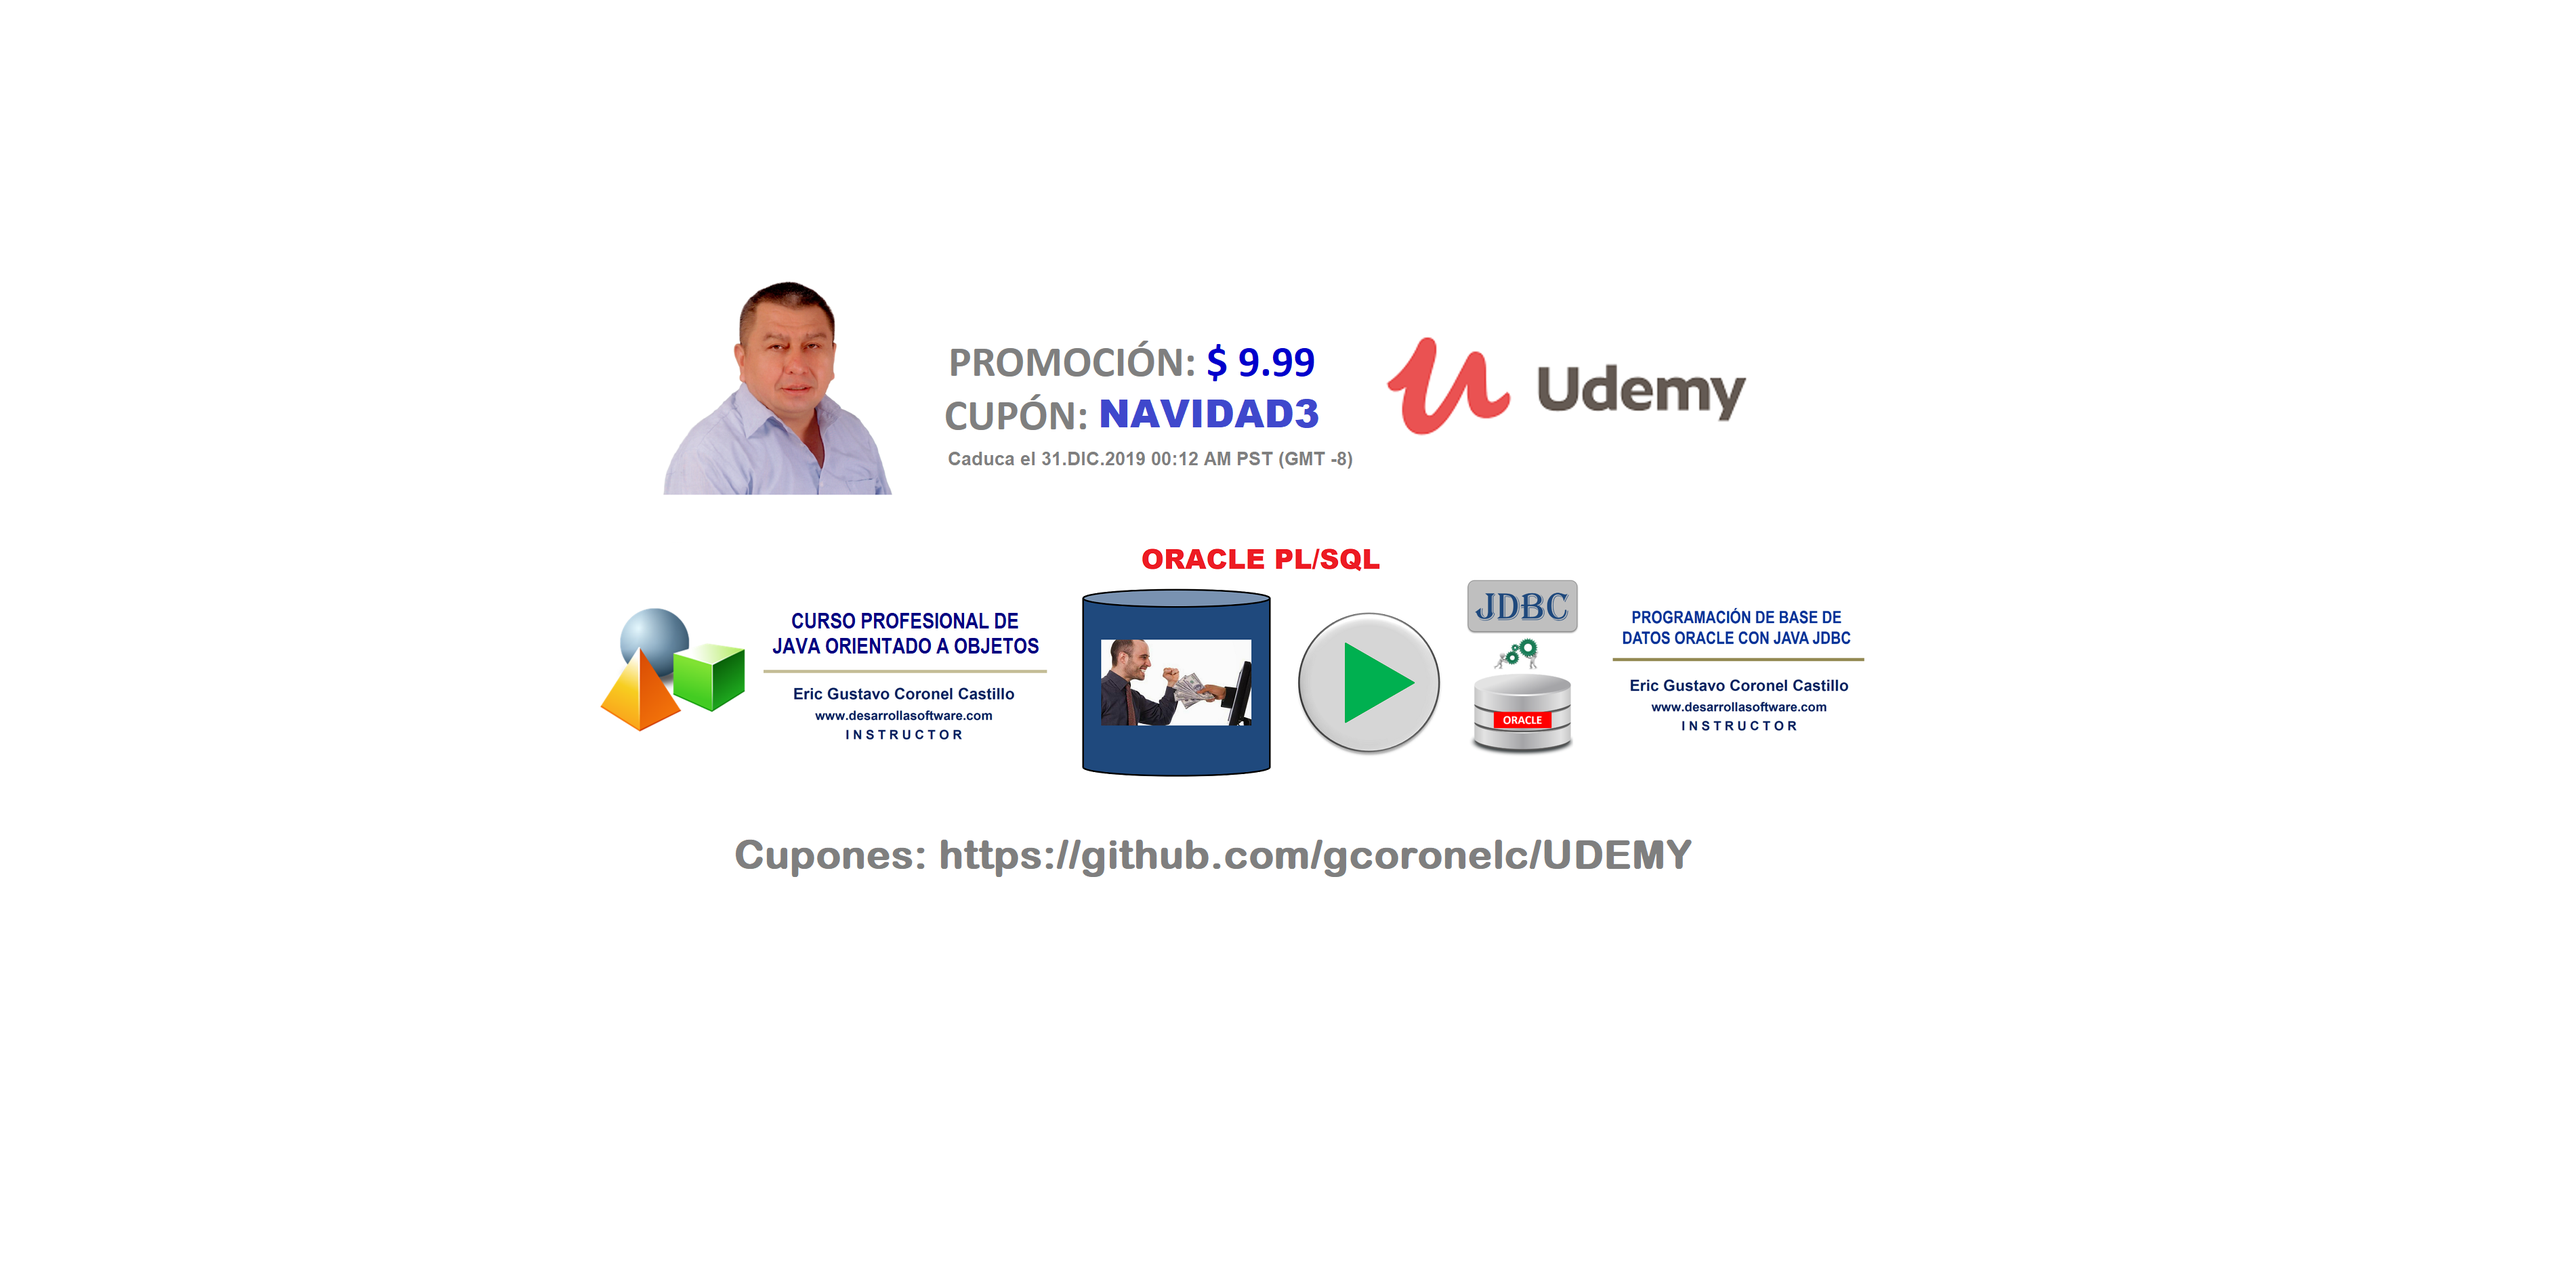
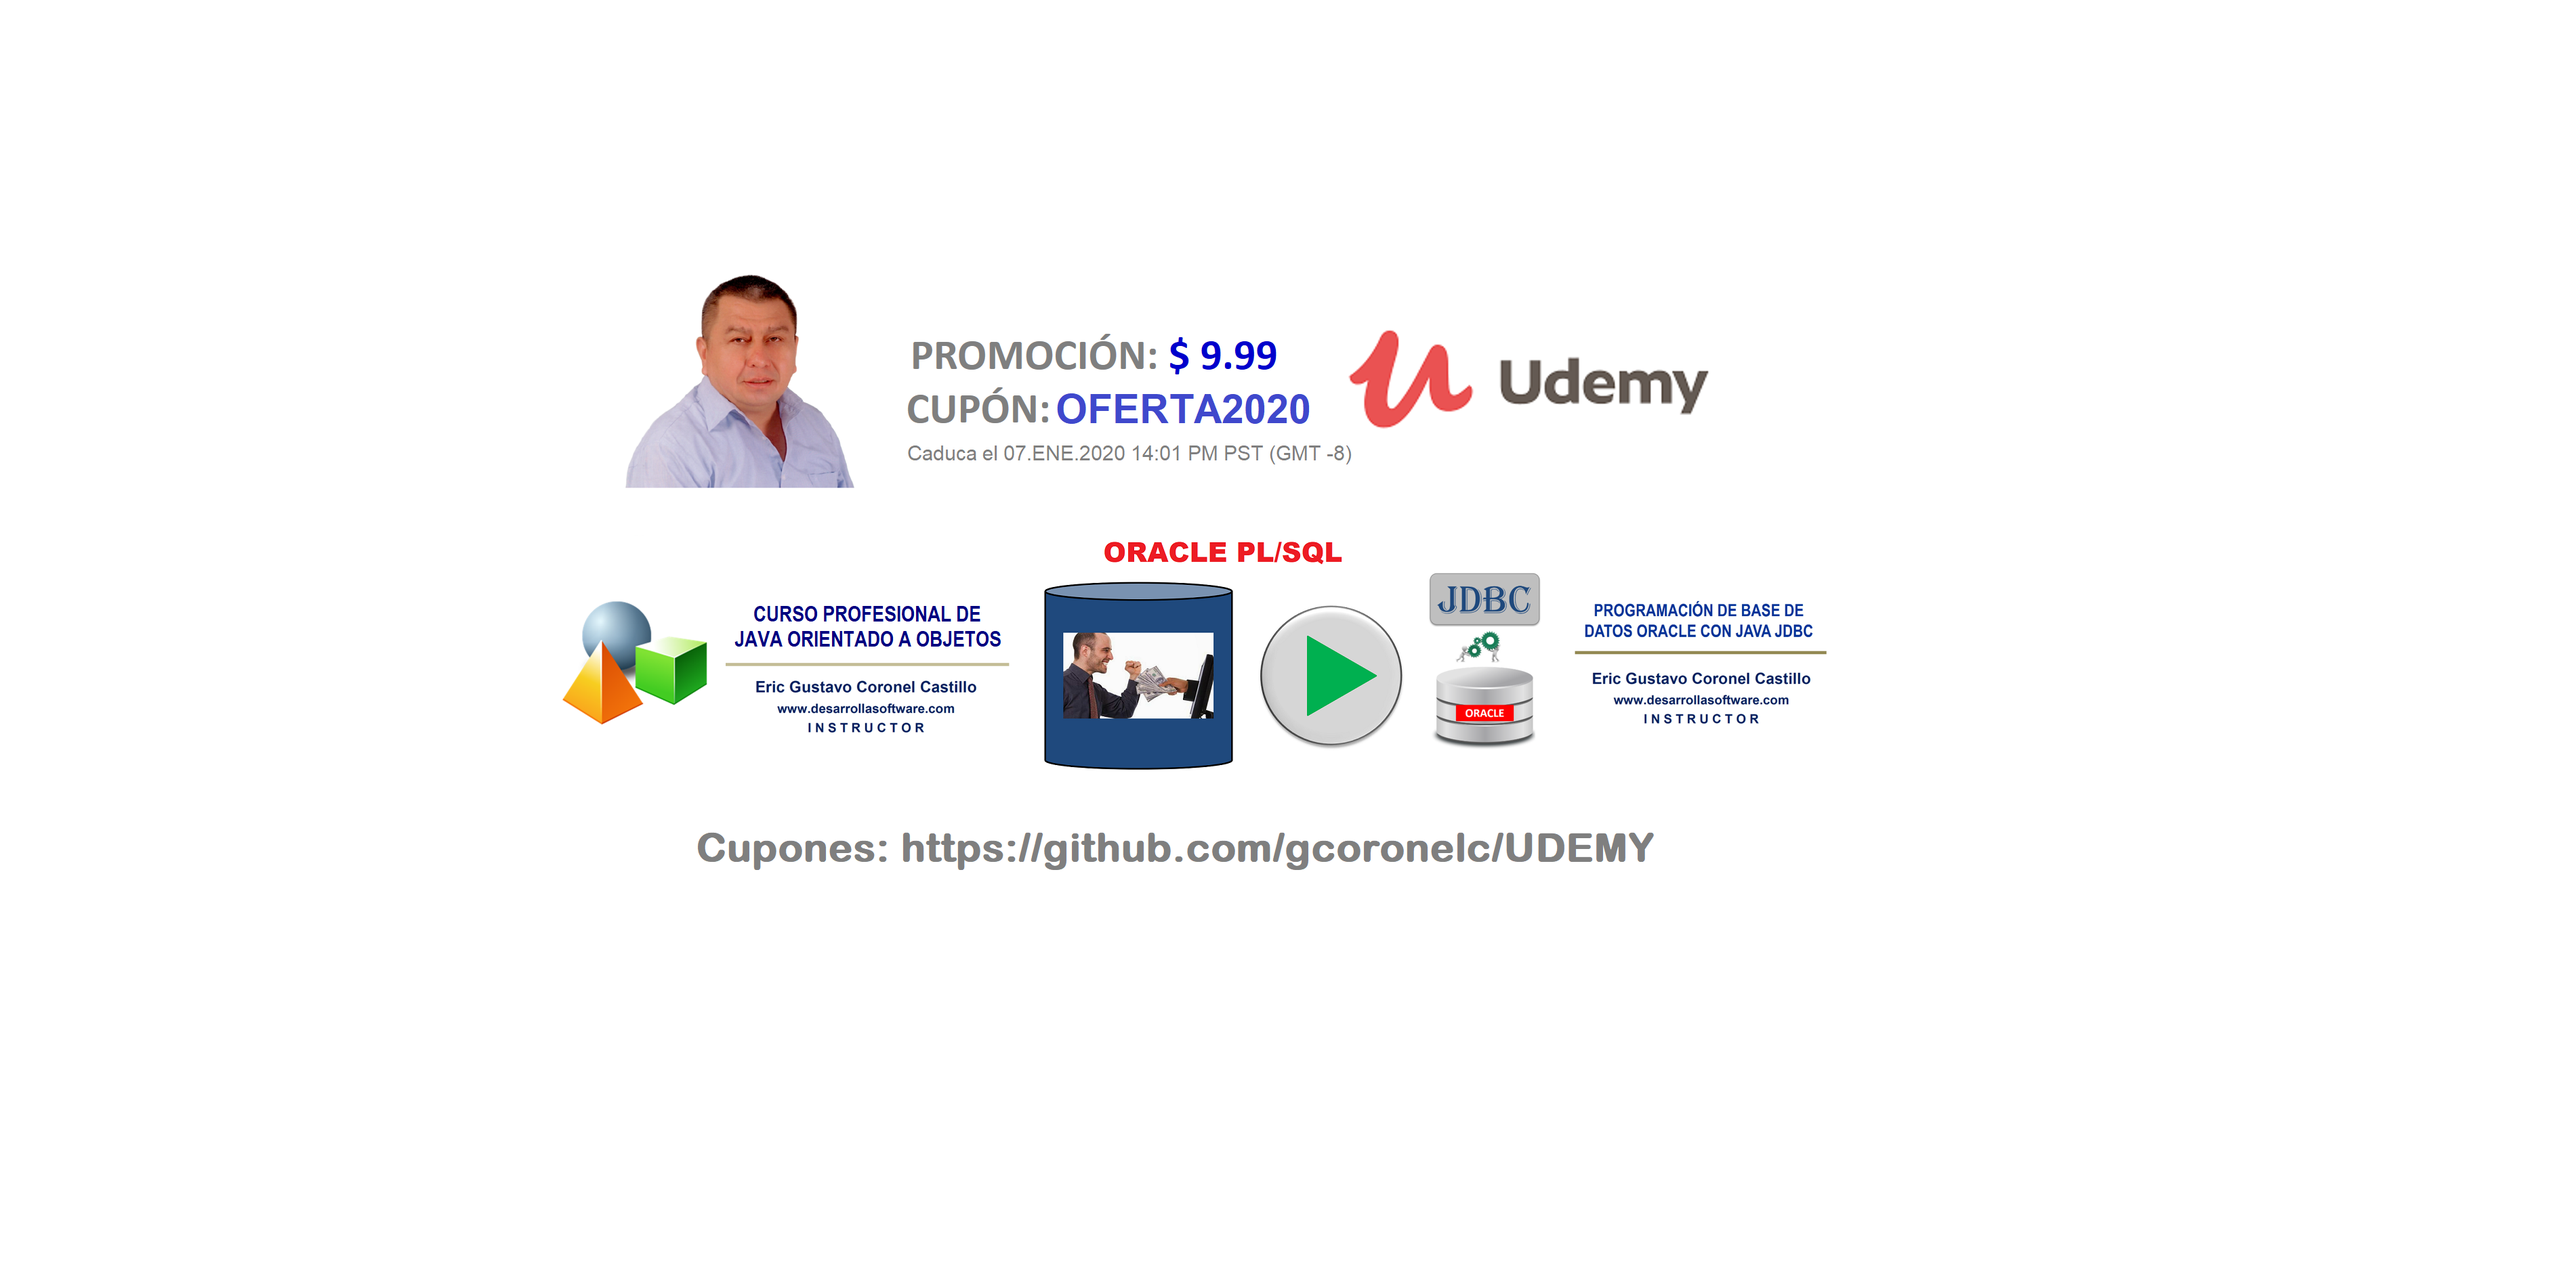
Año Nuevo

Changed region(s): [[0.2182, 0.4049, 0.7169, 0.623], [0.2493, 0.218, 0.6857, 0.4049], [0.2493, 0.6541, 0.6545, 0.7164]]

diff --git a/README.md b/README.md
@@ -1,25 +1,25 @@
-![CURSOS VIRTUALES EN UDEMY](https://raw.githubusercontent.com/gcoronelc/UDEMY/master/img/portada010.png)
+![CURSOS VIRTUALES EN UDEMY](https://raw.githubusercontent.com/gcoronelc/UDEMY/master/img/portada011.png)
 
 
 # JAVA ORIENTADO A OBJETOS
 
-- Cupon de $9.99: NAVIDAD3
-- Enlace: https://www.udemy.com/course/java-orientado-a-objetos/?couponCode=NAVIDAD3
+- Cupon de $9.99: OFERTA2020
+- Enlace: https://www.udemy.com/course/java-orientado-a-objetos/?couponCode=OFERTA2020
 
 [![JAVA ORIENTADO A OBJETOS](https://raw.githubusercontent.com/gcoronelc/UDEMY/master/cursos/joo.png)](http://www.youtube.com/watch?v=EKlwF12-l9Y "JAVA ORIENTADO A OBJETOS")
 
 # PROGRAMACIÓN DE BASE DE DATOS ORACLE CON JAVA JDBC
 
-- Cupon de $9.99: NAVIDAD3
-- Enlace: https://www.udemy.com/course/java-jdbc-oracle/?couponCode=NAVIDAD3
+- Cupon de $9.99: OFERTA2020
+- Enlace: https://www.udemy.com/course/java-jdbc-oracle/?couponCode=OFERTA2020
 
 [![JAVA JDBC CON BASE DE DATOS ORACLE](https://raw.githubusercontent.com/gcoronelc/UDEMY/master/cursos/jdbc.png)](http://www.youtube.com/watch?v=MR53Xgeg28Y "JAVA JDBC CON BASE DE DATOS ORACLE")
 
 
 # ORACLE PL/SQL
 
-- Cupon de $9.99: NAVIDAD3
-- Enlace: https://www.udemy.com/course/lenguaje-plsql/?couponCode=NAVIDAD3
+- Cupon de $9.99: OFERTA2020
+- Enlace: https://www.udemy.com/course/lenguaje-plsql/?couponCode=OFERTA2020
 
 [![ORACLE PL/SQL](https://raw.githubusercontent.com/gcoronelc/UDEMY/master/cursos/plsql.png)](https://youtu.be/qf5IF2dJtQc "ORACLE PL/SQL")
 
